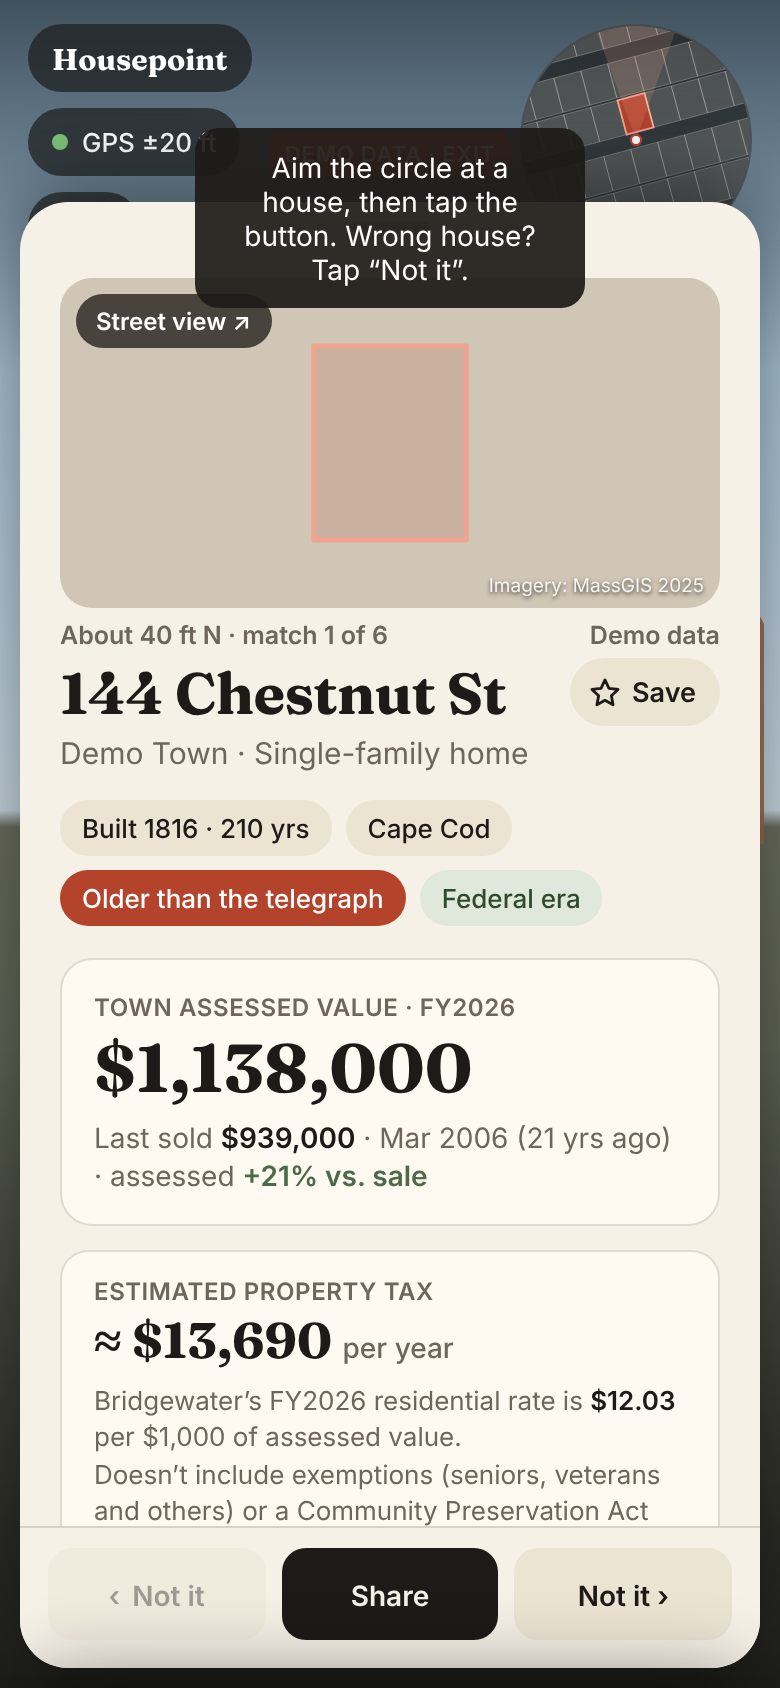
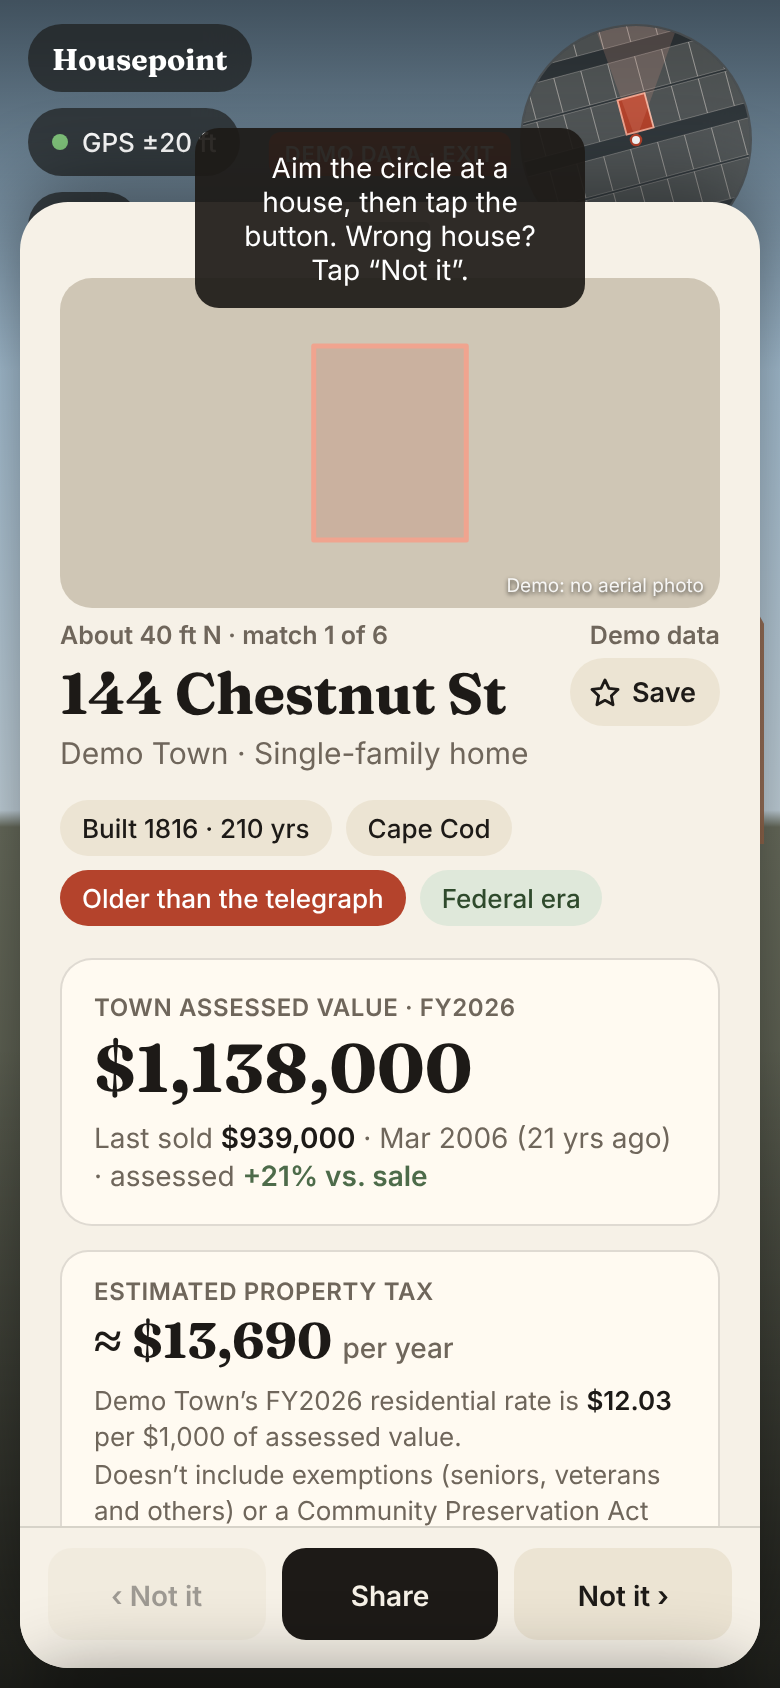
Audit fixes, second round: what the Fable check found
Privacy
- Bismarck's property-type description (it can say "Owner Occupied") isn't
  asked for any more, and is out of its test records.
- Personal status: more words dropped (handicapped, paraplegic, senior
  citizen, widow, surviving spouse…), with Minnesota's "1b" class code that
  says the same; Maryland keeps only institutions' exemption classes.
- Alaska: lot and tract numbers and values starting with a number are
  dropped; R1/RR1 and a few use words kept.
- Places: the services probe's test box, two tests' made-up spots and the
  iPhone app's demo moved away from Matt's area; the tax test samples
  Danvers. The old root screenshots are refreshed (the demo one named
  Bridgewater).
- ?service= is for testing on this computer only; the link guard covers
  <area>; the owner test scans for more mailing and deed wording.

Numbers and reliability
- Connecticut: the appraisal is shown only where the share is well under 70%
  (above it is just outbuildings); resorts, research, reservoirs, rescue,
  warehouses and firehouses aren't homes; townhouses still are.
- Safety: a town's only department is used wherever its office is; the
  distance limit applies only when two share the name.
- AR tags leave fractional values off too.
- The stall timer waits for silence (20 s with nothing arriving), not for
  the whole answer, so a slow but steady download isn't cut; the parcel
  backstop is three minutes.
- Retries after a failed load use the same growing wait for GPS fixes too;
[…]

diff --git a/index.html b/index.html
@@ -596,11 +596,11 @@ const TABS = (() => {
   } catch (e) { return qs.get('tabs') === '1'; }   // private mode: this visit only
 })();
 const DECL_OVERRIDE = qs.has('decl') ? parseFloat(qs.get('decl')) : NaN;   // e.g. ?decl=0 if a phone already reports true north
-// ?service= swaps in another copy of the Massachusetts parcel service (testing only). Only MassGIS's own ArcGIS account or a
-// .gov site is accepted, and on the live site only with ?debug too, so a shared link can't feed the app made-up records.
+// ?service= swaps in another copy of the Massachusetts parcel service, for testing on this computer only: it's ignored on the live
+// site, so a shared link can't feed the app made-up records. Only MassGIS's own ArcGIS account or a .gov site is accepted.
 function serviceOverride(search, host) {
   const p = new URLSearchParams(search), local = !host || host === 'localhost' || host === '127.0.0.1';
-  if (!local && !p.has('debug')) return null;
+  if (!local) return null;
   try { const u = new URL(p.get('service') || ''); const h = u.hostname.toLowerCase();
     return u.protocol === 'https:' && (h.endsWith('.gov') || (h.endsWith('.arcgis.com') && u.pathname.split('/')[1] === MASSGIS_ORG)) ? u.href : null; }
   catch (e) { return null; }
@@ -813,7 +813,7 @@ function ctKind(d) {
   if (/APART|\bAPTS?\b|^APT/.test(d)) return /FOUR|\b4 ?-? ?UNIT|\b[234] ?-? ?FAM/.test(d) ? 'multi' : 'apartments';
   if (/\bTWO\b|THREE|FOUR|\b[234] ?-? ?FAM|2-4|DUPLEX|MULTI|MFAM|IN-LAW|\b[234] ?UNIT/.test(d)) return 'multi';
   if (/BOARD|BORDING|ROOMING|LODGING|DORM|GROUP HOME|ELDERLY|CONGREGATE/.test(d)) return 'otherRes';
-  if (/SINGLE|ONE FAM|\b1 ?-? ?FAM|\bSFR?\b|\bSGL|^RES(?!T)|RESID|DWELL|HOUSE|COTTAGE|SEASONAL/.test(d)) return 'single';
+  if (/SINGLE|ONE FAM|\b1 ?-? ?FAM|\bSFR?\b|\bSGL|^RES(?!T|ORT|EAR|ERV|CUE)|RESID|DWELL|(?:\bTOWN|\b)HOUSE|COTTAGE|SEASONAL/.test(d)) return 'single';
   if (/\bIND|MANUF|WAREH|FACTORY|\bMILL\b|STORAGE/.test(d)) return 'industrial';
   if (/COMM|\bCOM\b|RETAIL|OFFICE|STORE|SHOP|CONVENIEN|DEPART|DEALER|BARBER|BEAUTY|DINER|LUNCH|REST|BANK|HOTEL|MOTEL|\bINN\b|GAS|SERVICE|AUTO|GARAGE|MALL|PLAZA|THEAT|CLUB|FRAT|DAY ?CARE|NURSING|MED|DENT|FUNERAL|MORTU|PARKING|PARK LOT|NURSERY|GARDEN|MARINA|\bBUS/.test(d)) return 'commercial';
   return model === '01' ? 'single' : model === '94' ? 'commercial' : 'unknown';
@@ -2207,19 +2207,29 @@ const AK_USE_WORDS = new Set(('RESIDENTIAL RESIDENCE RESID RESI RES SINGLE FAMIL
   + 'THEATER THEATRE MOTION PICTURE WAREHOUSE STORAGE MINI MARINA HANGAR AIRPORT UTILITY UTILITIES MINING FARM AGRICULTURAL AGRICULTURE '
   + 'RECREATIONAL RECREATION PARK VACANT VAC LAND LOT LOTS TAX PARCEL TRACT NO DATA ACCESSORY ASSEMBLED COOPERATIVE COOP OBY ONLY PUBLIC '
   + 'PRIVATE STATE CITY BOROUGH MUNICIPAL FEDERAL GOVERNMENT NATIVE ALLOTMENT EXEMPT PARTIAL INSTITUTIONAL COMMUNITY PURPOSE SURVEYED ROADWAY '
-  + 'IMPROVED UNIMPROVED SUBSURFACE GENERAL USE OF AND').split(' '));
+  + 'IMPROVED UNIMPROVED SUBSURFACE GENERAL USE OF AND UNIT UNITS SHOP SHOPS PLEX').split(' '));
 function akUseScrub(v) {
   const t = String(v ?? '').trim();
-  if (!t || /\d{3,}/.test(t) || !/[A-Za-z]/.test(t)) return null;          // no zip codes, box numbers or addresses
-  const words = t.toUpperCase().match(/[A-Z]+/g) || [];
-  return words.length && words.every((w) => AK_USE_WORDS.has(w)) ? t : null;
+  if (!t || /\d{3,}/.test(t) || !/[A-Za-z]/.test(t) || /^\d/.test(t)) return null;          // no zip codes, box numbers or addresses
+  if (/\b(LOT|LOTS|TRACT|BLOCK|BLK|PARCEL|SURVEY|SEC|SECTION)\s*#?\s*\d/i.test(t)) return null;    // a legal description's lot or tract number
+  const words = t.toUpperCase().match(/[A-Z]+\d*/g) || [];
+  return words.length && words.every((w) => AK_USE_WORDS.has(w) || /^R{1,2}\d$/.test(w)) ? t : null;   // R1, RR1: residential zones
 }
 // Who lives in a home and why it's taxed lower is about the owner, so it's cut down the moment it arrives: a homestead becomes a
 // plain yes or no (DC's numbered codes tell seniors and people with disabilities apart), and the words that say so leave a
 // county's tax class and dwelling type (Minnesota's "1b Blind/Disabled Homestead", "Single-Family / Owner Occupied").
 const yesNoHomestead = (v) => (v == null ? v : /^(Y|F)/i.test(String(v).trim()) || /^0*[1-9]\d*$/.test(String(v).trim()) ? 'Y' : 'N');
-const PERSONAL_WORDS = /\b(BLIND|DISABLED|DISABILITY|SENIORS?|ELDERLY|VETERANS?|OWNER[- ]OCCUPIED|NON[- ]OWNER[- ]OCCUPIED)\b/gi;
-const dropPersonal = (v) => (v == null ? v : String(v).replace(PERSONAL_WORDS, '').replace(/\s*\/\s*(?=\/|$)/g, '').replace(/\/\s*\//g, '/').replace(/\s{2,}/g, ' ').replace(/^[\s/-]+|[\s/-]+$/g, '').trim());
+const PERSONAL_WORDS = /\b(BLIND|DISABLED|DISABILITY|HANDICAPPED|PARAPLEGIC|SENIOR CITIZENS?|SENIORS?|SR CITIZENS?|ELDERLY|AGED|VETERANS?|WIDOWS?|WIDOWERS?|SURVIVING SPOUSES?|NON[- ]OWNER[- ]OCCUPIED|OWNER[- ]OCCUPIED)\b/gi;
+const dropPersonal = (v) => {
+  if (v == null) return v;
+  let t = String(v);
+  if (PERSONAL_WORDS.test(t)) t = t.replace(/^\s*1b\b\s*/i, '');      // Minnesota's class 1b is the blind and disabled homestead: its code says it too
+  PERSONAL_WORDS.lastIndex = 0;
+  return t.replace(PERSONAL_WORDS, ' ').split('/').map((x) => x.replace(/\s{2,}/g, ' ').trim()).filter(Boolean).join('/').replace(/^[\s-]+|[\s-]+$/g, '').trim();
+};
+// Maryland's exemption class: only the classes of institutions (state, county, town, school board, federal, public, nonprofit,
+// religious) are kept; an exemption for a person (a disabled veteran's, say) is dropped.
+const mdExemptClass = (v) => (v == null ? v : /^(STA|MUN|JUR|FED|CNT|BOE|PUB|NPF|PVT)\b/i.test(String(v).trim()) ? dropPersonal(v) : null);
 function akUseLabel(r) {
   if (!r) return null;
   const k = akKind(r), u = t2clean(r.USE_DESC);
@@ -2967,7 +2977,7 @@ const REGIONS = {
       // The town's appraisal is assessed at 70%, except where it isn't (Hartford's homes, farm and forest land assessed at their
       // use value): there the appraisal itself is the figure to show, and the tax note gives the real share.
       const a = num(o.ASSESSED), ap = (num(o.LAND_VAL) || 0) + (num(o.BLDG_VAL) || 0);
-      if (a > 0 && ap > 0 && Math.abs(a / ap - CT_RATIO) > 0.03) o.TOTAL_VAL = ap;
+      if (a > 0 && ap > 0 && a / ap < CT_RATIO - 0.03) o.TOTAL_VAL = ap;      // above 70% is just outbuildings the land + building leave out
       else if (a > 0) o.TOTAL_VAL = Math.round(a / CT_RATIO / 100) * 100;
       else if (ap > 0) o.TOTAL_VAL = ap;
       for (const k of ['LS_DATE', 'PRIOR_DATE']) if (typeof o[k] === 'number') o[k] = ymdUTC(o[k]);
@@ -3222,6 +3232,7 @@ const REGIONS = {
     },
     extraFields: ['QUALIFIED', 'MULTI_SALE', 'JURS', 'CONDO_OUTLINE', 'COMMON_GROUNDS'],
     derive: (o) => mdDerive(o),
+    scrub: { DESCEXCL: mdExemptClass },
     expand: (feats, sv) => mdExpand(feats, sv), prepare: (sv) => mdPointFields(sv),
     // Streets and water are outlines on this layer too (Baltimore's right-of-way is one 36 km² outline): never asked for.
     lotWhere: "(ACCTID IS NULL OR ACCTID NOT IN ('ROW','WATER','RAIL','RR','HYDRO'))",
@@ -3649,7 +3660,7 @@ const REGIONS = {
     // in the layer too, and are never asked for.
     services: ['https://services1.arcgis.com/XxHmL09eFqJWI0gE/arcgis/rest/services/ParcelsPublic/FeatureServer/0'],
     detect: ['PARCEL_ID', 'MARKET_LAND', 'LANDUSE'],
-    fields: { PROP_ID: ['PARCEL_ID'], SITE_ADDR: ['ADDRESS'], USE_DESC: ['LANDUSE'], TYPE_DESC: ['PROPERTY_TYPE_DESC'], UNITS: ['UNITS', 'Housing_Unit_Counts'],
+    fields: { PROP_ID: ['PARCEL_ID'], SITE_ADDR: ['ADDRESS'], USE_DESC: ['LANDUSE'], UNITS: ['UNITS', 'Housing_Unit_Counts'],
       YEAR_BUILT: ['YEAR_BUILT'], BATHS: ['TOTALBATHS'], BEDS: ['TOTALBEDSABOVE'], BEDS_LOW: ['TOTALBEDSBELOW'], LAND_VAL: ['MARKET_LAND'], BLDG_VAL: ['MARKET_BUILDING'],
       SALE_DATE: ['SALE_DATE'], LS_PRICE: ['SALE_PRICE'] },
     derive: (o) => { o.CITY = 'Bismarck'; const b = (num(o.BEDS) || 0) + (num(o.BEDS_LOW) || 0); o.BEDS = b > 0 ? b : null; delete o.BEDS_LOW; },
@@ -4110,18 +4121,23 @@ const svcFor = (rid) => SVC[rid] || (SVC[rid] = { ready: null });
 const anyServiceUp = () => Object.values(SVC).some((x) => x.layerUrl);
 
 async function getJSON(url, opts = {}, ms = 20000) {
-  // `ms` is how long to wait for the answer to start. The rest of it then has twice that (at least 30 seconds) to arrive: a
-  // connection that drops partway would otherwise leave "Loading…" up until the app is reloaded. `whole: true` makes `ms` cover
-  // the entire answer instead (OpenStreetMap's servers send the first bytes at once and the rest only when the search finishes).
+  // `ms` is how long to wait for the answer to start. After that it can take as long as it needs while it keeps coming, but if
+  // nothing more arrives for 20 seconds (or `ms`, if longer) it's given up as stopped partway: a connection that drops would
+  // otherwise leave "Loading…" up until the app is reloaded. `whole: true` makes `ms` cover the entire answer instead
+  // (OpenStreetMap's servers send the first bytes at once and the rest only when the search finishes).
   const { whole, signal, ...init } = opts;
   const ctl = new AbortController(); let t = setTimeout(() => ctl.abort(), ms), partway = false;
   if (signal) signal.addEventListener('abort', () => ctl.abort());     // a caller can cancel too
+  const quiet = () => { clearTimeout(t); t = setTimeout(() => { partway = true; ctl.abort(); }, Math.max(ms, 20000)); };
   let r, j;
   try {
-    try { r = await fetch(url, { ...init, signal: ctl.signal }); }
-    finally { if (!whole) { clearTimeout(t); t = setTimeout(() => { partway = true; ctl.abort(); }, Math.max(ms * 2, 30000)); } }
+    try { r = await fetch(url, { ...init, signal: ctl.signal }); } finally { if (!whole) quiet(); }
     if (!r.ok) throw new Error('HTTP ' + r.status);
-    j = await r.json();
+    if (!whole && r.body && r.body.getReader && typeof TextDecoder !== 'undefined') {     // read it as it comes, so each piece resets the wait
+      const reader = r.body.getReader(), dec = new TextDecoder(); let text = '';
+      for (;;) { const { done, value } = await reader.read(); if (done) break; text += dec.decode(value, { stream: true }); quiet(); }
+      j = JSON.parse(text + dec.decode());
+    } else j = await r.json();
   } catch (e) {
     if (ctl.signal.aborted && !(signal && signal.aborted)) throw new Error(partway ? 'the answer stopped partway (a weak signal?)' : `no answer in ${Math.round(ms / 1000)} seconds`);
     throw e;
@@ -4942,6 +4958,8 @@ function setData(parcels, lat, lon) {
   });
 }
 
+// After a failed load: 20 seconds, then 40, 80, and every two minutes after
+const retryWait = () => Math.min(120000, 20000 * 2 ** Math.min(3, (S.failCount || 1) - 1));
 async function ensureData(lat, lon, force = false) {
   if (!force && S.center && S.proj) {
     const [x, y] = S.proj.fwd(lat, lon);
@@ -4949,11 +4967,11 @@ async function ensureData(lat, lon, force = false) {
   }
   // A load already running is reused, unless this one must happen (the map moved somewhere else): then it waits its turn.
   while (S.loading) { if (!force) return S.loading; await S.loading.catch(() => {}); }
-  if (!force && S.failAt && Date.now() - S.failAt < 20000) throw new Error('waiting before retry');
+  if (!force && S.failAt && Date.now() - S.failAt < retryWait()) throw new Error('waiting before retry');
   S.loading = (async () => {
     try {
-      // A backstop: whatever a service does, the load ends (and can be tried again) within a minute and a half.
-      let stop; const limit = new Promise((_, no) => { stop = setTimeout(() => no(new Error('the property records took too long')), 90000); });
+      // A backstop: whatever a service does, the load ends (and can be tried again) within three minutes (a big area loads in pages).
+      let stop; const limit = new Promise((_, no) => { stop = setTimeout(() => no(new Error('the property records took too long')), 180000); });
       const lots = await Promise.race([queryParcelsNear(lat, lon), limit]).finally(() => clearTimeout(stop));
       setData(lots, lat, lon); S.failAt = 0; S.failCount = 0;
       const proj = S.proj;
@@ -6308,7 +6326,7 @@ function whyFailed(e) {
 // It goes by the link as the browser reads it (entities like &#9; and SVG's xlink:href included), and allows only web, mail and
 // in-page links.
 document.addEventListener('click', (e) => {
-  const a = e.target && e.target.closest && e.target.closest('a'); if (!a) return;
+  const a = e.target && e.target.closest && e.target.closest('a, area'); if (!a) return;
   const h = a.href && typeof a.href === 'object' ? a.href.baseVal : a.href || a.getAttribute('href') || a.getAttribute('xlink:href') || '';   // an SVG link's href is an object
   if (!h) return;
   let proto = ''; try { proto = new URL(h, location.href).protocol; } catch (err) { proto = 'bad:'; }
@@ -6569,11 +6587,11 @@ async function agencyFor(s, lat, lon) {
   });
   const town = normPlace(s.town);
   const local = all.filter((a) => /city|municipal|town/i.test(a.agency_type_name || '') || /police/i.test(a.agency_name || ''));
-  // A department named for the town: the nearest one, and only if it's within reach (two towns can share a name in one state,
-  // like New Jersey's Washington Townships). One with no location on file counts only if it's the only one by that name.
+  // A department named for the town. Two towns can share a name in one state (New Jersey's Washington Townships): then the nearer
+  // one, and only if it's within reach. One by that name is the one, wherever its office is (a big city's).
   const named = town ? local.filter((a) => normPlace(a.agency_name) === town).map((a) => ({ a, d: num(a.latitude) && num(a.longitude) ? distM(lat, lon, num(a.latitude), num(a.longitude)) : null })) : [];
   const placed = named.filter((x) => x.d != null).sort((x, y) => x.d - y.d);
-  let hit = placed.length ? (placed[0].d < 25000 ? placed[0].a : null) : named.length === 1 ? named[0].a : null;
+  let hit = named.length === 1 ? named[0].a : placed.length && placed[0].d < 25000 ? placed[0].a : null;   // two by that name: the nearer, if it's near
   if (!hit) {                                         // nearest police department, then the county sheriff
     const near = (list, maxM) => list.map((a) => ({ a, d: num(a.latitude) && num(a.longitude) ? distM(lat, lon, num(a.latitude), num(a.longitude)) : Infinity }))
       .filter((x) => x.d < maxM).sort((a, b) => a.d - b.d)[0];
@@ -7281,7 +7299,7 @@ function tick(ts) {
   uiTurn();
 
   // A load that failed is tried again by itself, waiting longer each time (20 seconds, then 40, 80, and every two minutes after)
-  if (!DEMO && S.mode === 'point' && S.pos && S.failAt && !S.loading && Date.now() - S.failAt > Math.min(120000, 20000 * 2 ** Math.min(3, (S.failCount || 1) - 1))) {
+  if (!DEMO && S.mode === 'point' && S.pos && S.failAt && !S.loading && Date.now() - S.failAt > retryWait()) {
     S.failAt = Date.now(); ensureData(S.pos.lat, S.pos.lon, true).catch(() => {});
   }
   let hint = '';
@@ -7297,7 +7315,7 @@ function tick(ts) {
   // further than fuzzy GPS moves it (30° off at 50 m is 25 m sideways, a house or two over), so it's the more useful thing to fix.
   else if (compassPoor()) hint = 'Compass is off. Wave your phone in a figure 8, away from cars and metal.';
   else if (S.acc > 35) hint = 'GPS is fuzzy right now. Results may be off.';
-  $('#hint').textContent = hint;
+  if ($('#hint').textContent !== hint) $('#hint').textContent = hint;     // only on a change, so a screen reader hears it once
 
   drawRadar();
   if (DEBUG) {
@@ -7494,7 +7512,7 @@ function shortKind(s) {
 function arChipHtml(L) {
   const s = summarize(L.p), m = lotMetrics(L);
   const top = s.park ? 'Park' : s.year ? String(s.year) : s.approxYear ? `~${s.approxYear}` : (s.condo || s.commonOnly) ? (s.building === 'comCondo' ? 'Units' : 'Condos') : shortKind(s);
-  const sub = s.park ? (s.sites ? `${s.sites} sites` : 'Mobile homes') : (s.condo || s.commonOnly) ? `${s.units} units` : (money(s.r0.TOTAL_VAL) || '');
+  const sub = s.park ? (s.sites ? `${s.sites} sites` : 'Mobile homes') : (s.condo || s.commonOnly) ? `${s.units} units` : fractionalValue(s) ? '' : (money(s.r0.TOTAL_VAL) || '');
   const dot = ageColor(m.year, L.p.region);
   return `<span class="y">${dot ? `<i style="background:${dot}"></i>` : ''}${esc(top)}</span>${sub ? `<span class="m">${esc(sub)}</span>` : ''}`;
 }
@@ -7829,6 +7847,7 @@ $('#mapSvg').addEventListener('click', (e) => {
   const later = () => { if (!raf) raf = requestAnimationFrame(() => { raf = 0; drawMap(); }); };   // at most once a frame, however fast the pointer reports
   const spread = () => { const [a, b] = [...pts.values()]; return Math.hypot(a.x - b.x, a.y - b.y) || 1; };
   svg.addEventListener('pointerdown', (e) => {
+    if (e.isPrimary) { pts.clear(); pinch = null; }
     pts.set(e.pointerId, { x: e.clientX, y: e.clientY });
     if (pts.size === 2) { pinch = { d: spread(), R: S.map.R }; drag = null; }
     else if (pts.size === 1) drag = { x: e.clientX, y: e.clientY, moved: false };

diff --git a/privacy.html b/privacy.html
@@ -67,7 +67,7 @@
   <h2>Links out</h2>
   <p>Some buttons open another site in your browser, and only when you tap them: Google Maps Street View (the house's location), Zillow
   and a Google search (the address, to check whether it's for sale), Walk Score (the address and location), a school's NCES page, the
-  state's school report cards, and the county or town's own property record page. Each site has its own privacy policy.</p>
+  state's school report cards, the county or town's own property record page, and a Google search for a town's assessor site where its records are old or missing. Each site has its own privacy policy.</p>
 
   <h2>Hosting</h2>
   <p>The site is hosted on GitHub Pages. Like any web host, GitHub sees your device's internet address when the page loads.</p>
@@ -75,7 +75,7 @@
   <h2>Saved houses</h2>
   <p>Houses you look up are kept in a History list on your phone so you can find them again, and houses you star are kept in a Saved list
   to compare. Your calculator settings (down payment, rate and loan length) are remembered the same way, as are the nearest addresses
-  found for lots whose records have none (so they aren't looked up twice). All of it stays on your device. History has a "Clear this list"
+  found for lots whose records have none (so they aren't looked up twice), and your choices of card layout and map colors. All of it stays on your device. History has a "Clear this list"
   button; clearing your browser data, or deleting the app, erases all of it.</p>
 
   <h2>Sharing</h2>

diff --git a/ios/Housepoint/Core/Parcel.swift b/ios/Housepoint/Core/Parcel.swift
@@ -101,7 +101,7 @@ enum Parcels {
 
     // MARK: demo neighborhood (for the simulator, Apple's reviewers, and trying it anywhere)
 
-    static let demoCenter = LL(lat: 42.0, lon: -71.0)
+    static let demoCenter = LL(lat: 42.32, lon: -72.63)   // western Massachusetts, as on the web
 
     static func demo(around c: LL = demoCenter) -> [Parcel] {
         let proj = Proj(c.lat, c.lon)
